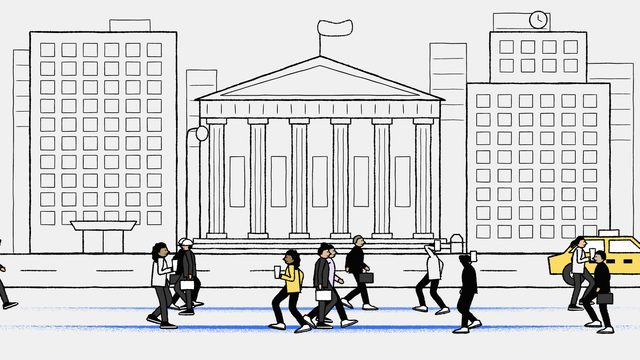
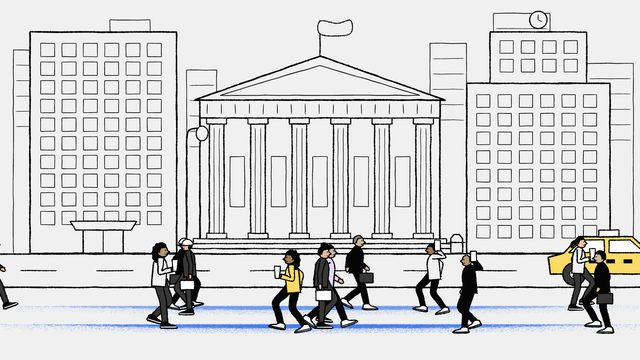
fix: 전화기 든 팔이 눈을 가리던 것과 골짜기에서 레일에 박히던 카트 수정
앞 수리를 같은 리뷰어가 다시 보고 찾았다.

- 전화기를 귀로 옮기자 팔꿈치가 기본 방향으로 접혀 앞팔이 눈 위를 가로질렀다(사무실의 통화하는 사람, 거리의 두 사람). 그 팔은 팔꿈치를 뒤로 접는다.
- 롤러코스터: 바퀴의 접점만 레일에 놓고 바퀴 원은 현에 붙여 그려서, 레일이 가파른 곳에서 원이 레일을 파고들었다(골짜기에서 8px). 바퀴 중심을 그 자리 레일의 법선 방향으로 반지름만큼 띄운다. 골짜기가 카트보다 좁아 몸통 끝이 레일에 박히던 것은 카트 앞뒤 돌출을 줄이고 골짜기를 넓혀 풀었다. 뒤꿈치가 카트 바닥 밑으로 나오던 것도 고쳤다.
- "매수!" 말풍선이 시세판 아랫변에 붙던 것을 띄웠다.
- 거리의 스미어 주석이 실제 위치와 달랐다. 줄마다 먼 쪽 밑창 11px 위에 한 줄로 맞췄다. 두 줄을 다 덮는 넓은 띠로도 해 봤지만 파란 띠 두 개가 장면을 눌러서 버렸다.

Claude-Session: https://claude.ai/code/session_01SxpfByivEBBVomRBrmxUNB

diff --git a/IBM/scenes/market/chart-rollercoaster-rider.html b/IBM/scenes/market/chart-rollercoaster-rider.html
@@ -8,10 +8,10 @@
 <script src="../../kit/figure.js"></script>
 <script>
 /* 차트 선을 레일 삼은 노란 카트가 딸깍딸깍 느리게 꼭대기까지 올라가 한참 멈췄다가, 한 장에 바닥까지 곤두박질치고 남은 힘으로 작은 언덕을 넘어 서자 탄 사람이 "…내려 주세요." 한다. 원본에 없는 창작 장면으로, 원본의 "긴 준비, 스미어 한 장, 긴 정지"와 3프레임 단위의 느린 연기를 주가 차트 은유로 옮겼다. 전달하는 생각: 오르는 데는 오래 걸리고 떨어지는 것은 한순간이다.
-   Motion notes: one locked shot, 7.5 s. The rail is the chart line itself (one ink stroke through 11 points) on two axes; the cart is placed by its two wheels, each at its own arc length along that same curve, and the body spans the chord between them, so both wheels stay on the line through every bend. Climb 0.5-3.0 s on threes (8 fps), 21 drawings whose steps shrink toward the top (1 - (1 - u)^1.5), a tick mark flipping sides behind the wheel on every drawing: slow and countable is what climbing looks like. Three more drawings creep the last 24 px onto the crest, then the cart is dead still 0.63 s (3.38-4.0 s) while shake marks flicker for 4 drawings. The plunge is ONE drawing at 4.0 s: the cart two thirds of the way down, stretched 2.1x along the rail, four speed lines trailing, arms already up. On the next drawing it is at the lowest point of the dip with a four-line burst for 2 drawings, then it runs on twos: up the small hill in 6 drawings (outQuad), over and along to the end in 8 (inOutQuad), stopped at 5.25 s. The bubble shows 6.0-6.75 s over a still pose and leaves on a hard cut; from then only the rider's head rocks, two drawings alternating on threes. The climb's beats are on the threes grid (eighths of a second); it hands over to twos at 4.0 s, which is on both grids. The cart is rigid and turns with the rail's slope; the rider is drawn inside the cart's turned frame, so the body tips with it. Two colours: the yellow cart, the mint top. */
+   Motion notes: one locked shot, 7.5 s. The rail is the chart line itself (one ink stroke through 11 points) on two axes; the cart is placed by its two wheels: each wheel's centre is one radius off the curve along the curve's own normal at that wheel's arc length, and the body spans the line between the two centres, so both wheels roll on the line through every bend and the short overhangs clear a dip narrower than the cart. Climb 0.5-3.0 s on threes (8 fps), 21 drawings whose steps shrink toward the top (1 - (1 - u)^1.5), a tick mark flipping sides behind the wheel on every drawing: slow and countable is what climbing looks like. Three more drawings creep the last 24 px onto the crest, then the cart is dead still 0.63 s (3.38-4.0 s) while shake marks flicker for 4 drawings. The plunge is ONE drawing at 4.0 s: the cart two thirds of the way down, stretched 2.1x along the rail, four speed lines trailing, arms already up. On the next drawing it is at the lowest point of the dip with a four-line burst for 2 drawings, then it runs on twos: up the small hill in 6 drawings (outQuad), over and along to the end in 8 (inOutQuad), stopped at 5.25 s. The bubble shows 6.0-6.75 s over a still pose and leaves on a hard cut; from then only the rider's head rocks, two drawings alternating on threes. The climb's beats are on the threes grid (eighths of a second); it hands over to twos at 4.0 s, which is on both grids. The cart is rigid and turns with the rail's slope; the rider is drawn inside the cart's turned frame, so the body tips with it. Two colours: the yellow cart, the mint top. */
 const { lerp, clamp } = MG;
 const C = IB.C, F = IB.FIG, AX = 220, BASE = 900;
-const P = [[270, 838], [430, 792], [690, 340], [820, 246], [905, 330], [1040, 758], [1180, 800], [1330, 566], [1470, 520], [1610, 596], [1770, 578]];
+const P = [[270, 838], [430, 792], [690, 340], [820, 246], [905, 330], [1030, 730], [1200, 806], [1390, 580], [1520, 530], [1650, 596], [1790, 580]];
 const WHO = { h: 250, dir: 1, skin: C.skin[2], top: C.mint, topKind: 'long', bottom: C.ink, shoe: C.paper, hair: 'pony', seed: 40 };
 const T = (n) => n / 12, K = 1.35;   // K: the cart and its rider are drawn at this scale, with line widths divided back
 
@@ -51,19 +51,20 @@ function ride(t) {
 }
 
 function cart(ctx, r, stretch) {
-  // the rear wheel stands on the rail 40 K behind s and the front one 42 K ahead; the cart lies along the chord between them, lifted by half the rail's thickness
-  const rear = railAt(r.s - 40 * K * stretch).p, front = railAt(r.s + 42 * K * stretch).p, a = Math.atan2(front[1] - rear[1], front[0] - rear[0]), h = WHO.h;
-  const p = [lerp(rear[0], front[0], 40 / 82) + Math.sin(a) * 2.75, lerp(rear[1], front[1], 40 / 82) - Math.cos(a) * 2.75];
+  // each wheel's centre sits one radius (plus half the rail's thickness) off the rail along the rail's normal there, 40 K behind s and 42 K ahead; the cart hangs between the two centres
+  const R = 11 * K + 2.75, off = (q) => [q.p[0] + Math.sin(q.a) * R, q.p[1] - Math.cos(q.a) * R];
+  const rear = off(railAt(r.s - 40 * K * stretch)), front = off(railAt(r.s + 42 * K * stretch)), a = Math.atan2(front[1] - rear[1], front[0] - rear[0]), h = WHO.h;
+  const p = [lerp(rear[0], front[0], 40 / 82) - Math.sin(a) * 11 * K, lerp(rear[1], front[1], 40 / 82) + Math.cos(a) * 11 * K];
   ctx.save();
   ctx.translate(p[0], p[1]); ctx.rotate(a); ctx.scale(stretch * K, K);
   const who = { ...WHO, lw: IB.figLine(h * K) / K };
   // the rider sits inside: hip low in the cart, feet forward and hidden, hands on the bar or thrown up
   const up = r.mood === 'drop', hip = [-14, -52];
-  const pose = { hip, lean: up ? -0.12 : 0.03, nod: r.mood === 'dizzy' ? 0.25 + (r.rock ? 0.14 : 0) : up ? -0.3 : r.mood === 'scared' ? 0.1 : 0, feet: [[26, -26, -0.3], [18, -24, -0.3]], hands: up ? [[26, -180], [4, -186]] : [[50, -92], [44, -88]], grip: [!up, !up], knee: [1, 1] };
+  const pose = { hip, lean: up ? -0.12 : 0.03, nod: r.mood === 'dizzy' ? 0.25 + (r.rock ? 0.14 : 0) : up ? -0.3 : r.mood === 'scared' ? 0.1 : 0, feet: [[26, -36, 0], [18, -34, 0]], hands: up ? [[26, -180], [4, -186]] : [[50, -92], [44, -88]], grip: [!up, !up], knee: [1, 1] };
   const face = r.mood === 'calm' ? { mouth: 'smile' } : r.mood === 'scared' ? { eye: 'wide', mouth: 'flat', brow: -1 } : r.mood === 'drop' ? { eye: 'wide', mouth: 'open' } : { eye: 'closed', mouth: 'frown' };
   IB.figure(ctx, pose, { ...who, face }, 'far');
   if (!up) IB.seg(ctx, 40, -50, 50, -94, { w: 3.4 / K, seed: 60 });                                               // the bar
-  IB.ink(ctx, [[-70, -66], [-62, -16], [64, -16], [78, -52], [58, -52], [50, -40], [-48, -40], [-52, -66]], { closed: true, smooth: false, fill: C.yellow, w: 3.8 / K, seed: 61 });
+  IB.ink(ctx, [[-66, -66], [-58, -16], [58, -16], [72, -52], [56, -52], [48, -40], [-46, -40], [-50, -66]], { closed: true, smooth: false, fill: C.yellow, w: 3.8 / K, seed: 61 });
   for (const x of [-40, 42]) { IB.oval(ctx, x, -11, 11, 11, { fill: C.paper, w: 3.2 / K, seed: 62 + x, n: 10 }); IB.oval(ctx, x, -11, 3, 3, { fill: C.ink, w: 0, n: 6 }); }
   IB.figure(ctx, pose, { ...who, face }, 'near');
   ctx.restore();

diff --git a/IBM/scenes/market/trading-desk-row.html b/IBM/scenes/market/trading-desk-row.html
@@ -29,7 +29,7 @@ function poses(t) {
   if (n(T(39)) >= 0 && n(T(39)) < 6) { a.nod = -0.3; a.face = { eye: 'wide', mouth: 'open' }; } else a.face = { mouth: n(T(45)) >= 0 ? 'smile' : 'flat' };
   // 2: the caller: on the phone, up on their feet, down again, typing
   const x = SEATS[1], sit = IB.sit(x, FLOOR, WHO[1]), sh = (p) => [p.hip[0], p.hip[1] - F.torso * H];
-  const call = { ...sit, lean: -0.06, hands: [[x + 0.2 * H, sit.hip[1] - 0.16 * H - (k3 % 2 ? 16 : 0)], [x - 0.035 * H, sit.hip[1] - F.torso * H - 0.085 * H]], grip: [false, true], face: { mouth: k3 % 2 ? 'open' : 'flat' }, phone: true };   // the handset at the ear, behind the face
+  const call = { ...sit, lean: -0.06, hands: [[x + 0.2 * H, sit.hip[1] - 0.16 * H - (k3 % 2 ? 16 : 0)], [x - 0.035 * H, sit.hip[1] - F.torso * H - 0.085 * H]], grip: [false, true], elbow: [1, -1], face: { mouth: k3 % 2 ? 'open' : 'flat' }, phone: true };   // the handset at the ear, behind the face; the elbow folds back so the forearm does not cross the eyes
   const up = IB.stand(x + 0.24 * H, FLOOR, WHO[1]); up.feet = sit.feet;
   up.hands = [[up.hip[0] + 0.1 * H, sh(up)[1] - 0.24 * H], [up.hip[0] + 0.21 * H, sh(up)[1] + 0.02 * H]]; up.grip = [true, true]; up.face = { eye: 'wide', mouth: 'open' }; up.phone = true;
   let b = call;
@@ -45,7 +45,7 @@ function poses(t) {
 
 /* The board: twelve cells, each a pair of bars standing in for a name and a price, and an arrow. */
 function board(ctx, tt) {
-  ctx.save(); ctx.translate(0, 60);   // hung low, leaving a band above the heads for the bubble
+  ctx.save(); ctx.translate(0, 50);   // hung low, leaving a band above the heads for the bubble
   IB.shade(ctx, 330, 392, 1260, 14, { from: 'top', seed: 5, alpha: 0.5 });
   IB.box(ctx, 320, 110, 1280, 280, { fill: C.paper, w: 3.6, seed: 400 });
   IB.seg(ctx, 320, 156, 1600, 156, { w: 2.6, seed: 401 });
@@ -90,7 +90,7 @@ MG.scene({
     IB.bg(ctx);
     const tt = IB.twos(t), k = Math.round(tt * 12), ps = poses(t);
     board(ctx, tt);
-    IB.oval(ctx, 1740, 270, 54, 54, { fill: C.paper, w: 3.4, seed: 480, n: 18 }); IB.seg(ctx, 1740, 270, 1740, 236, { w: 3, seed: 481 }); IB.seg(ctx, 1740, 270, 1762, 282, { w: 3, seed: 482 });
+    IB.oval(ctx, 1740, 260, 54, 54, { fill: C.paper, w: 3.4, seed: 480, n: 18 }); IB.seg(ctx, 1740, 260, 1740, 226, { w: 3, seed: 481 }); IB.seg(ctx, 1740, 260, 1762, 272, { w: 3, seed: 482 });
     IB.smear(ctx, 960, FLOOR - 4, 1760, { h: 14, seed: 9 });
     sheet(ctx, tt, T(57), [SEATS[0] + 300, DESK - 20], [SEATS[0] + 470, FLOOR - 6], 600);
     sheet(ctx, tt, T(60), [SEATS[1] + 290, DESK - 20], [SEATS[1] + 500, FLOOR - 6], 610);
@@ -114,7 +114,7 @@ MG.scene({
       if (tt >= T(60) - 1e-6 && !p.phone && !p.cup) { IB.shake(ctx, x + 124, DESK - 40, 14, { a: -Math.PI / 2 - 0.5, n: 2, seed: 800 + i * 40 + k, w: 2.4 }); IB.shake(ctx, x + 196, DESK - 40, 14, { a: -Math.PI / 2 + 0.5, n: 2, seed: 820 + i * 40 + k, w: 2.4 }); }
     });
     const b = ps[1];
-    IB.bubble(ctx, ['매수!'], t, T(47), { tip: [b.hip[0] + 46, b.hip[1] - 0.31 * H], x: b.hip[0] + 200, y: 500, until: T(57), seed: 900 });
+    IB.bubble(ctx, ['매수!'], t, T(47), { tip: [b.hip[0] + 46, b.hip[1] - 0.31 * H], x: b.hip[0] + 200, y: 512, until: T(57), seed: 900 });
   },
 });
 </script>

diff --git a/IBM/scenes/market/street-rush-hour.html b/IBM/scenes/market/street-rush-hour.html
@@ -103,7 +103,7 @@ function walker(ctx, w, k) {
   const sh = [p.hip[0], p.hip[1] - F.torso * w.h], prop = phone ? 'look' : w.prop;
   // what the hands are busy with, each target inside the arm's reach
   if (prop === 'cup') p.hands = [p.hands[0], [sh[0] + 0.15 * w.h * d, sh[1] + 0.13 * w.h]];
-  if (prop === 'phone') p.hands = [p.hands[0], [sh[0] - 0.035 * w.h * d, sh[1] - 0.085 * w.h]];   // at the ear, behind the face
+  if (prop === 'phone') { p.hands = [p.hands[0], [sh[0] - 0.035 * w.h * d, sh[1] - 0.085 * w.h]]; p.elbow = [1, -1]; }   // at the ear, behind the face, the elbow folded back so the forearm does not cross the eyes
   if (prop === 'look') { const base = IB.stand(x, w.floor, w).hands[1]; p.hands = [p.hands[0], [lerp(base[0], sh[0] + 0.17 * w.h * d, phone), lerp(base[1], sh[1] - 0.02 * w.h, phone)]]; p.nod = 0.2 * phone; }
   const face = phone === 1 ? { eye: 'wide', mouth: k >= STOP + 6 ? 'smile' : 'flat' } : { mouth: 'flat' };
   const j = IB.figure(ctx, p, { ...w, face, lw: IB.figLine(w.h) }), lw = IB.figLine(w.h);
@@ -122,9 +122,9 @@ MG.scene({
     const f = IB.frame(t), k = Math.round(IB.twos(t) * 12);
     street(ctx, f);
     if (t >= 1) cab(ctx, -260 + 520 * (t - 1), (t - 1) * 520 / 34);
-    // the pavement: a chalk line 11 px above each row's soles
-    IB.smear(ctx, 960, 923, 1900, { h: 12, seed: 8, alpha: 0.45 });
-    IB.smear(ctx, 960, 978, 1900, { h: 16, seed: 9 });
+    // the pavement: one chalk line per row, its crisp edge 11 px above the farther walkers' soles; its dust thins out by the nearer walkers' soles, 14 px lower
+    IB.smear(ctx, 960, 919, 1900, { h: 20, seed: 8, alpha: 0.4 });
+    IB.smear(ctx, 960, 974, 1900, { h: 20, seed: 9, alpha: 0.7 });
     let hero = null;
     for (const w of ROWS) { const r = walker(ctx, w, k); if (w.hero) hero = r; }
     if (hero) {

diff --git a/IBM/scenes/market/monitor-candles-breakout.html b/IBM/scenes/market/monitor-candles-breakout.html
@@ -55,7 +55,7 @@ MG.scene({
       const [op, cl, hi, lo] = DATA[BREAK], x = at.x(BREAK), top = at.y(cl) - (at.y(op) - at.y(cl)) * 0.14;
       IB.seg(ctx, x, top - 30, x, at.y(lo), { w: 5.6, seed: 200 });
       IB.box(ctx, x - 19, top, 38, at.y(op) - top, { fill: C.blue, w: 7, seed: 201 });
-      for (const dx of [-62, -44, 46]) IB.seg(ctx, x + dx, at.y(op) - 20, x + dx, at.y(op) - 150 - Math.abs(dx), { w: 4, seed: 203 + dx });
+      for (const dx of [-62, -44, 46]) IB.seg(ctx, x + dx, at.y(op) - 20, x + dx, at.y(op) - 150 - Math.abs(dx), { w: 5, seed: 203 + dx });
     }
     if (b >= 1 && b < 3) for (let i = 0; i < 5; i++) { const a = -Math.PI / 2 + (i - 2) * 0.42, r0 = 50 + (b - 1) * 22, r1 = r0 + 54, x = at.x(BREAK), y = at.y(DATA[BREAK][2]) - 10; IB.seg(ctx, x + Math.cos(a) * r0, y + Math.sin(a) * r0, x + Math.cos(a) * r1, y + Math.sin(a) * r1, { w: 6, seed: 210 + i + b * 7 }); }
 
